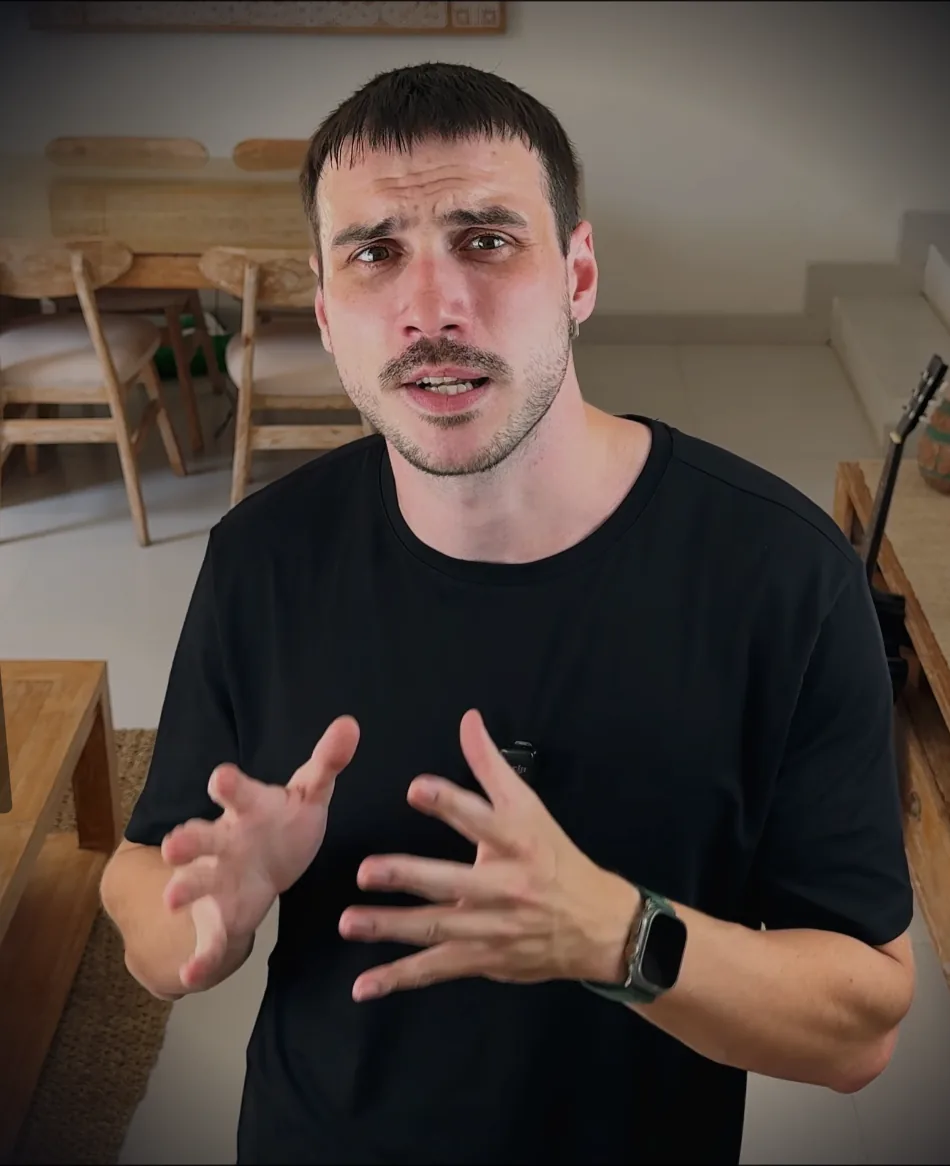
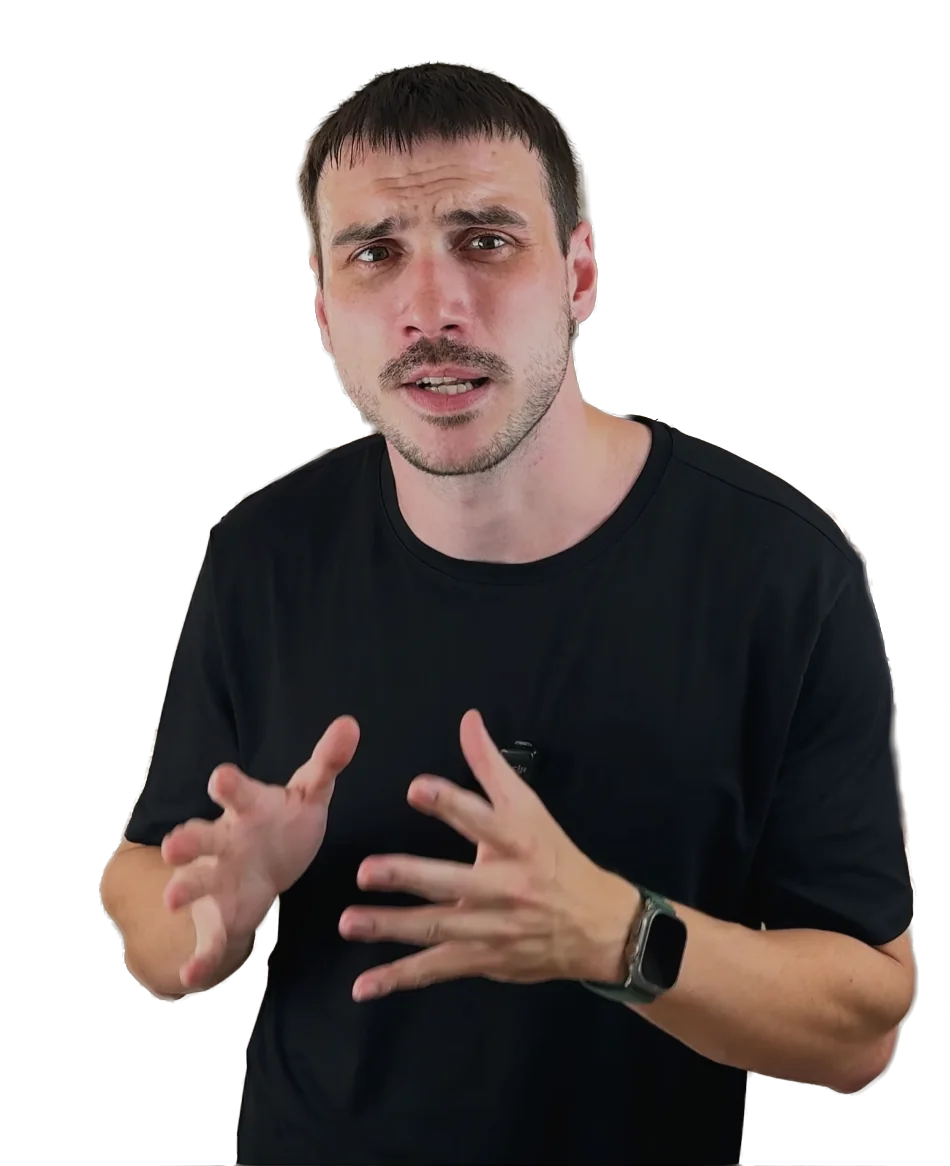
Главное фото: вырез без фона, логотип и красная подсветка за спиной

diff --git a/style.css b/style.css
@@ -53,12 +53,35 @@ ul { list-style: none; padding: 0; }
 
 /* ---------- фото ---------- */
 .photo { position: relative; aspect-ratio: 4 / 5; max-height: 78vh; max-height: 78svh; width: 100%; overflow: hidden; }
-.photo img { width: 100%; height: 100%; object-fit: cover; object-position: 50% 18%; }
-.shade {
-  position: absolute; inset: 0; pointer-events: none;
+.photo {
+  container-type: inline-size; isolation: isolate;
   background:
-    linear-gradient(180deg, rgba(7, 8, 12, .55) 0, rgba(7, 8, 12, 0) 20%, rgba(7, 8, 12, 0) 48%, rgba(7, 8, 12, .62) 70%, var(--bg) 93%),
-    linear-gradient(rgba(7, 8, 12, .16), rgba(7, 8, 12, .16));
+    radial-gradient(55% 42% at 50% 40%, rgba(232, 50, 43, .5), rgba(232, 50, 43, .14) 48%, rgba(232, 50, 43, 0) 72%),
+    radial-gradient(130% 90% at 50% 0, #1b0c12 0, var(--bg) 72%);
+}
+.photo img { position: absolute; z-index: 1; inset: 25cqw 0 0; width: 100%; height: calc(100% - 25cqw); object-fit: cover; object-position: 50% 0; }
+.photo .cut { filter: brightness(.94) contrast(1.06) drop-shadow(0 0 1px rgba(255, 140, 130, .55)) drop-shadow(0 0 1.75rem rgba(232, 50, 43, .38)); }
+/* за спиной: огромное слово и кольцо - голова их перекрывает */
+.aura { position: absolute; inset: 0; z-index: 0; overflow: hidden; pointer-events: none; }
+.biglogo {
+  position: absolute; z-index: 1; left: 50%; top: 14cqw; width: 54cqw; height: auto; transform: translateX(-50%) rotate(-3deg);
+  filter: drop-shadow(0 0 2.5rem rgba(232, 50, 43, .55)) drop-shadow(0 1.2rem 2rem rgba(0, 0, 0, .5));
+}
+.ring {
+  position: absolute; left: 50%; top: 50cqw; width: 80cqw; aspect-ratio: 1; transform: translate(-50%, -50%);
+  border-radius: 50%; border: 1px solid rgba(255, 81, 72, .22);
+  box-shadow: 0 0 3rem rgba(232, 50, 43, .22), inset 0 0 3rem rgba(232, 50, 43, .14);
+}
+.ring::after {
+  content: ""; position: absolute; inset: -1px; border-radius: 50%;
+  background: conic-gradient(from 0deg, rgba(255, 81, 72, 0) 0 62%, rgba(255, 110, 100, .95) 88%, rgba(255, 81, 72, 0) 100%);
+  -webkit-mask: radial-gradient(closest-side, transparent calc(100% - 2px), #000 calc(100% - 1.5px));
+  mask: radial-gradient(closest-side, transparent calc(100% - 2px), #000 calc(100% - 1.5px));
+}
+.shade {
+  position: absolute; inset: 0; z-index: 2; pointer-events: none;
+  background:
+    linear-gradient(180deg, rgba(7, 8, 12, .5) 0, rgba(7, 8, 12, 0) 18%, rgba(7, 8, 12, 0) 50%, rgba(7, 8, 12, .62) 72%, var(--bg) 93%);
 }
 
 /* ---------- заголовок ---------- */
@@ -262,7 +285,10 @@ h1 { margin-top: .625rem; font-size: clamp(2.6rem, 13vw, 4.25rem); line-height: 
   .way:nth-child(3) { animation-delay: .34s; }
   .way-main { animation: rise .6s var(--ease) .18s both, glowpulse 3.6s ease-in-out 1.2s infinite; }
   .photo img { animation: fade 1s ease both; }
+  .biglogo { animation: fade 1.4s ease .2s both; }
+  .ring::after { animation: spin 14s linear infinite; }
 }
+@keyframes spin { to { transform: rotate(360deg); } }
 @media (prefers-reduced-motion: reduce) {
   html { scroll-behavior: auto; }
   *, *::before, *::after { animation: none !important; transition: none !important; }
@@ -280,7 +306,9 @@ h1 { margin-top: .625rem; font-size: clamp(2.6rem, 13vw, 4.25rem); line-height: 
 @media (min-width: 600px) and (max-width: 899px) {
   :root { --pad: 1.75rem; }
   .photo { aspect-ratio: 16 / 11; max-height: 70vh; }
-  .photo img { object-position: 50% 24%; }
+  .photo img { inset: 15cqw 0 0; height: calc(100% - 15cqw); object-fit: contain; object-position: 50% 100%; }
+  .biglogo { top: 5cqw; width: 30cqw; }
+  .ring { top: 30cqw; width: 44cqw; }
   .copy { margin-top: -9.5rem; }
   .ways, .crypto, .free, .gwrap { max-width: 40rem; margin-inline: auto; width: 100%; }
   .sky.fly { --h: 34rem; }
@@ -298,12 +326,13 @@ h1 { margin-top: .625rem; font-size: clamp(2.6rem, 13vw, 4.25rem); line-height: 
     position: sticky; top: 0; align-self: start;
     aspect-ratio: auto; max-height: none; height: 100vh; height: 100svh;
   }
-  .photo img { position: absolute; inset: 0; width: 100%; height: 100%; object-position: 50% 26%; }
+  .photo img { position: absolute; inset: 19vh 0 0; width: 100%; height: calc(100% - 19vh); object-fit: contain; object-position: 50% 100%; }
+  .biglogo { top: 7vh; width: min(44cqw, 34vh); }
+  .ring { top: 40vh; width: min(66cqw, 54vh); }
   .shade {
     background:
-      linear-gradient(90deg, rgba(7, 8, 12, 0) 36%, rgba(7, 8, 12, .1) 50%, rgba(7, 8, 12, .45) 68%, rgba(7, 8, 12, .88) 86%, var(--bg) 100%),
-      linear-gradient(180deg, rgba(7, 8, 12, .38) 0, rgba(7, 8, 12, 0) 20%, rgba(7, 8, 12, 0) 78%, rgba(7, 8, 12, .55) 100%),
-      linear-gradient(rgba(7, 8, 12, .14), rgba(7, 8, 12, .14));
+      linear-gradient(90deg, rgba(7, 8, 12, 0) 80%, rgba(7, 8, 12, .6) 94%, var(--bg) 100%),
+      linear-gradient(180deg, rgba(7, 8, 12, 0) 75%, rgba(7, 8, 12, .7) 100%);
   }
   .stage > :not(.photo) { grid-column: 2; width: 100%; padding-left: 0; padding-right: var(--gut); }
 

diff --git a/index.html b/index.html
@@ -45,7 +45,14 @@
   </header>
 
   <div class="photo">
-    <img src="img/hero.webp" width="950" height="1166" alt="Ден, автор канала DenTrave" fetchpriority="high">
+    <div class="aura" aria-hidden="true">
+      <svg class="biglogo" viewBox="0 0 1032 411" focusable="false">
+        <path d="M56 32H1008A24 24 0 0 1 1032 56V250A161 161 0 0 1 871 411H193A161 161 0 0 1 32 250V56A24 24 0 0 1 56 32Z" fill="#e8322b"/>
+        <path d="M24 0H976A24 24 0 0 1 1000 24V218A161 161 0 0 1 839 379H161A161 161 0 0 1 0 218V24A24 24 0 0 1 24 0Z" fill="#fff"/>
+        <text x="508" y="247" text-anchor="middle" font-family="'Helvetica Neue',Helvetica,Arial,sans-serif" font-weight="700" font-size="161" letter-spacing="16" fill="#e8322b">TRAVE</text>
+      </svg>
+      <span class="ring"></span></div>
+    <img class="cut" src="img/hero.webp" width="950" height="1166" alt="Ден, автор канала DenTrave" fetchpriority="high">
     <div class="shade" aria-hidden="true"></div>
   </div>
 
